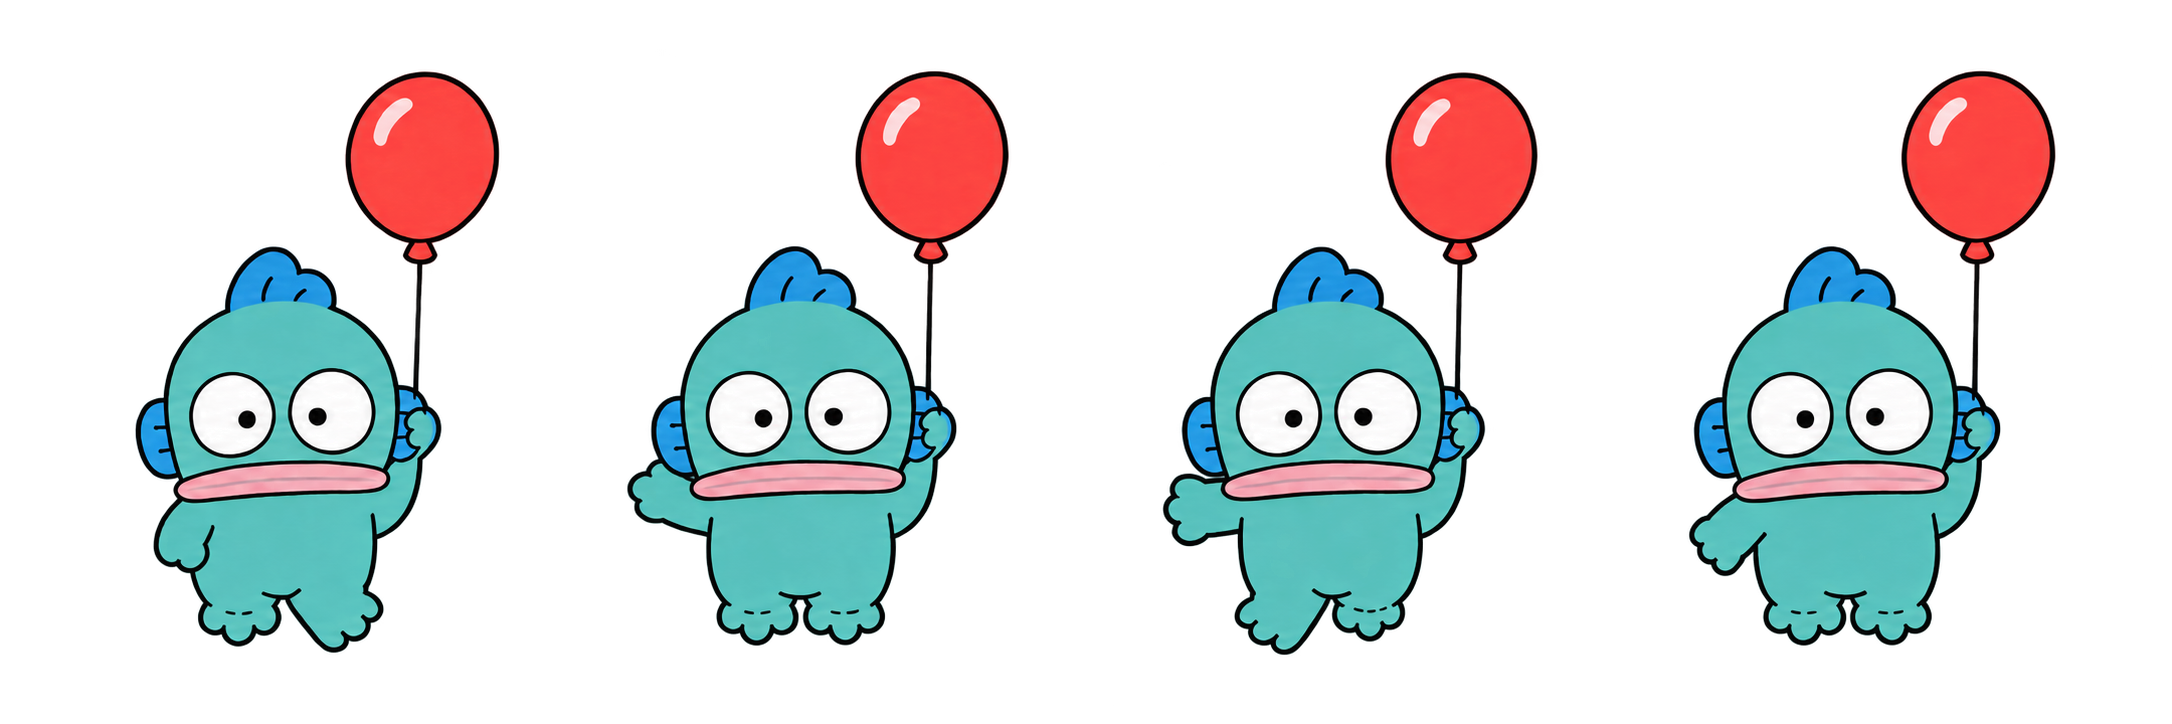
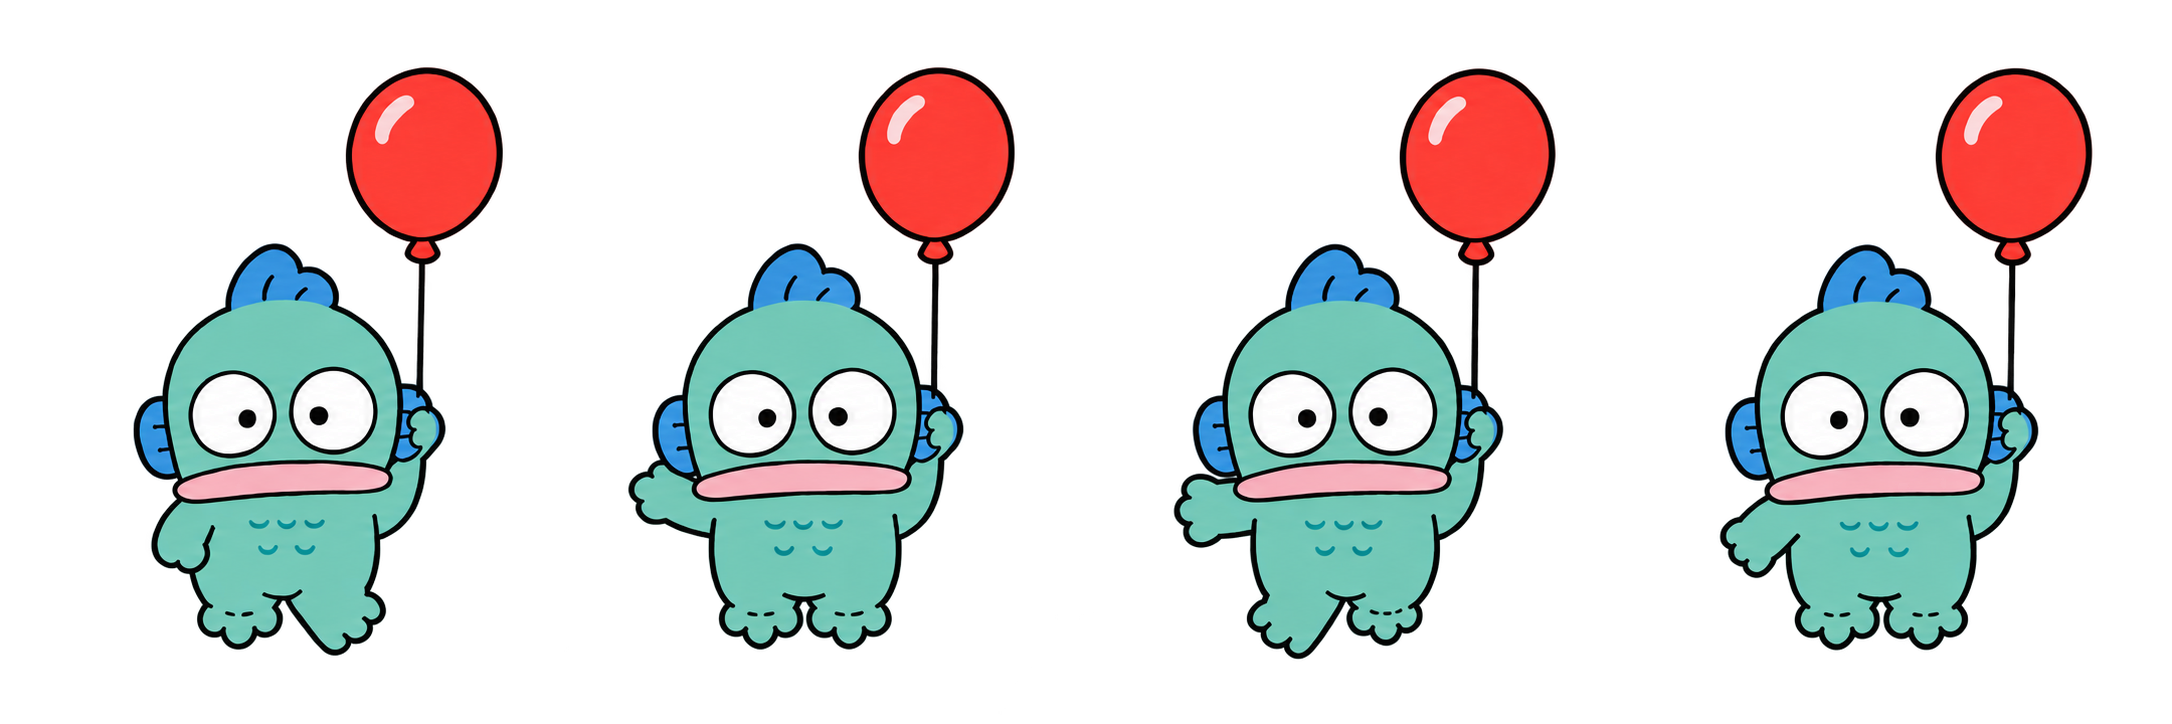
fix

diff --git a/index.html b/index.html
@@ -17,9 +17,9 @@
       sizes="180x180"
       href="./icons/apple-touch-icon.png?v=osaka-1"
     />
-    <link rel="stylesheet" href="./mascot.css?v=short-arms-1" />
-    <link rel="preload" as="image" href="./assets/mascot-balloon-active.webp?v=short-arms-1" fetchpriority="low" />
-    <script src="./mascot.js?v=short-arms-1" defer></script>
+    <link rel="stylesheet" href="./mascot.css?v=color-match-2" />
+    <link rel="preload" as="image" href="./assets/mascot-balloon-active.webp?v=color-match-2" fetchpriority="low" />
+    <script src="./mascot.js?v=color-match-2" defer></script>
     <style>
       @font-face {
         font-family: "Trip Sans Thai";

diff --git a/mascot.js b/mascot.js
@@ -31,7 +31,7 @@
   const centers = [121, 123, 123, 121, 121.5, 122.5, 122, 122.5, 122, 121.5, 121.5, 121.5, 122.5, 121, 120, 123];
   const feet = [609, 609, 609, 609, 609, 609, 610, 609, 609, 609, 608, 609, 608, 608, 609, 608];
   // Measured eye centers keep the head still while the free arm and feet paddle.
-  const balloonEyes = [[281.72, 412.48], [797.86, 411.96], [1327.63, 412.2], [1839.65, 412.56]];
+  const balloonEyes = [[282.31, 411.71], [801.75, 411.75], [1342.12, 412.03], [1873.93, 413.32]];
   let frame = -1;
   let raf = null;
   let lastTick = 0;

diff --git a/mascot.css b/mascot.css
@@ -55,7 +55,7 @@
   pointer-events: none;
 }
 .mascot-art[data-sprite="balloon"] {
-  background-image: url("./assets/mascot-balloon-active.webp?v=short-arms-1");
+  background-image: url("./assets/mascot-balloon-active.webp?v=color-match-2");
   background-size: calc(var(--mascot-width) * 4.24) auto;
   background-position:
     calc(var(--mascot-width) * var(--mascot-balloon-x))
